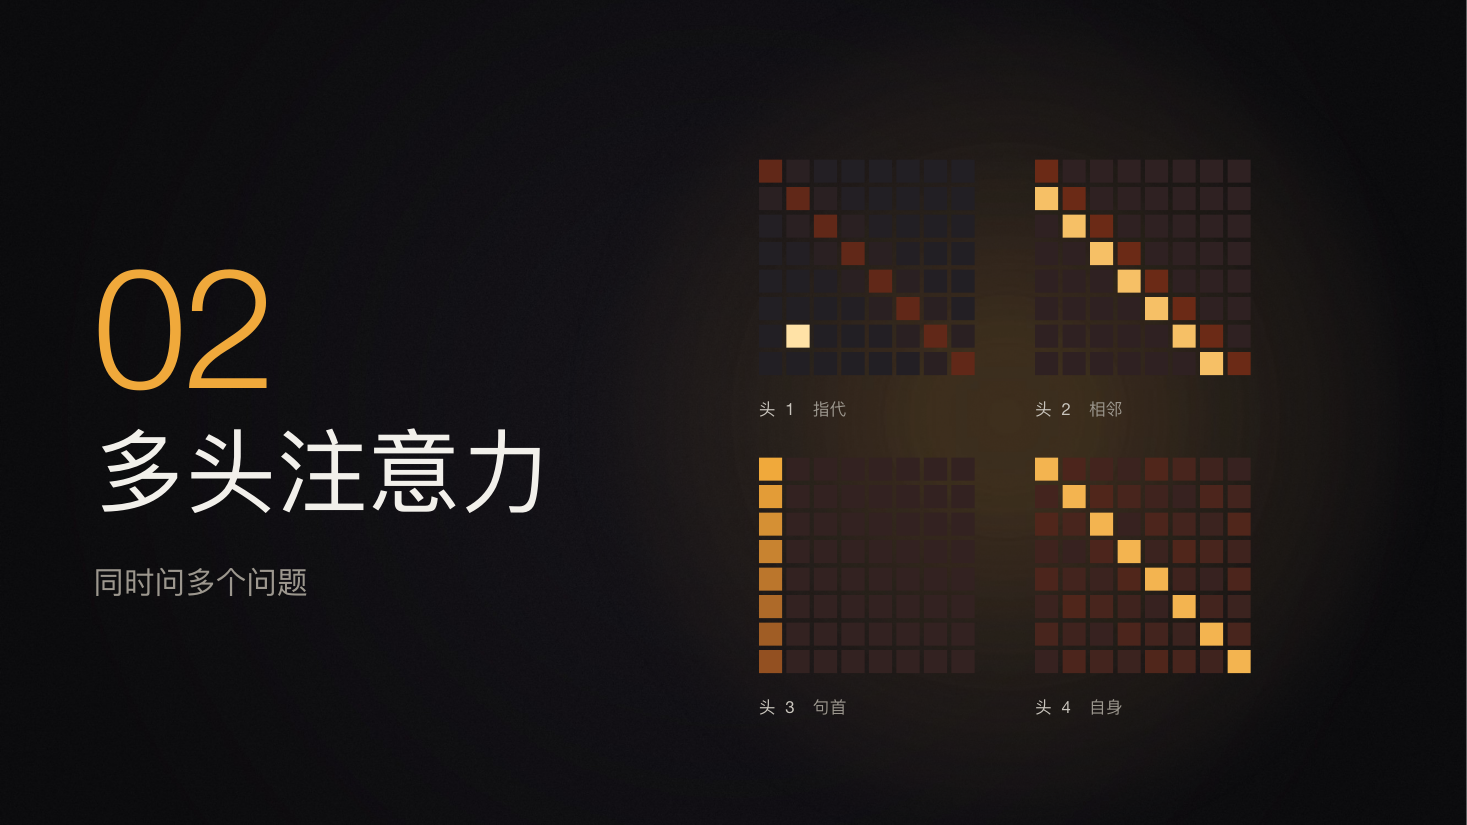
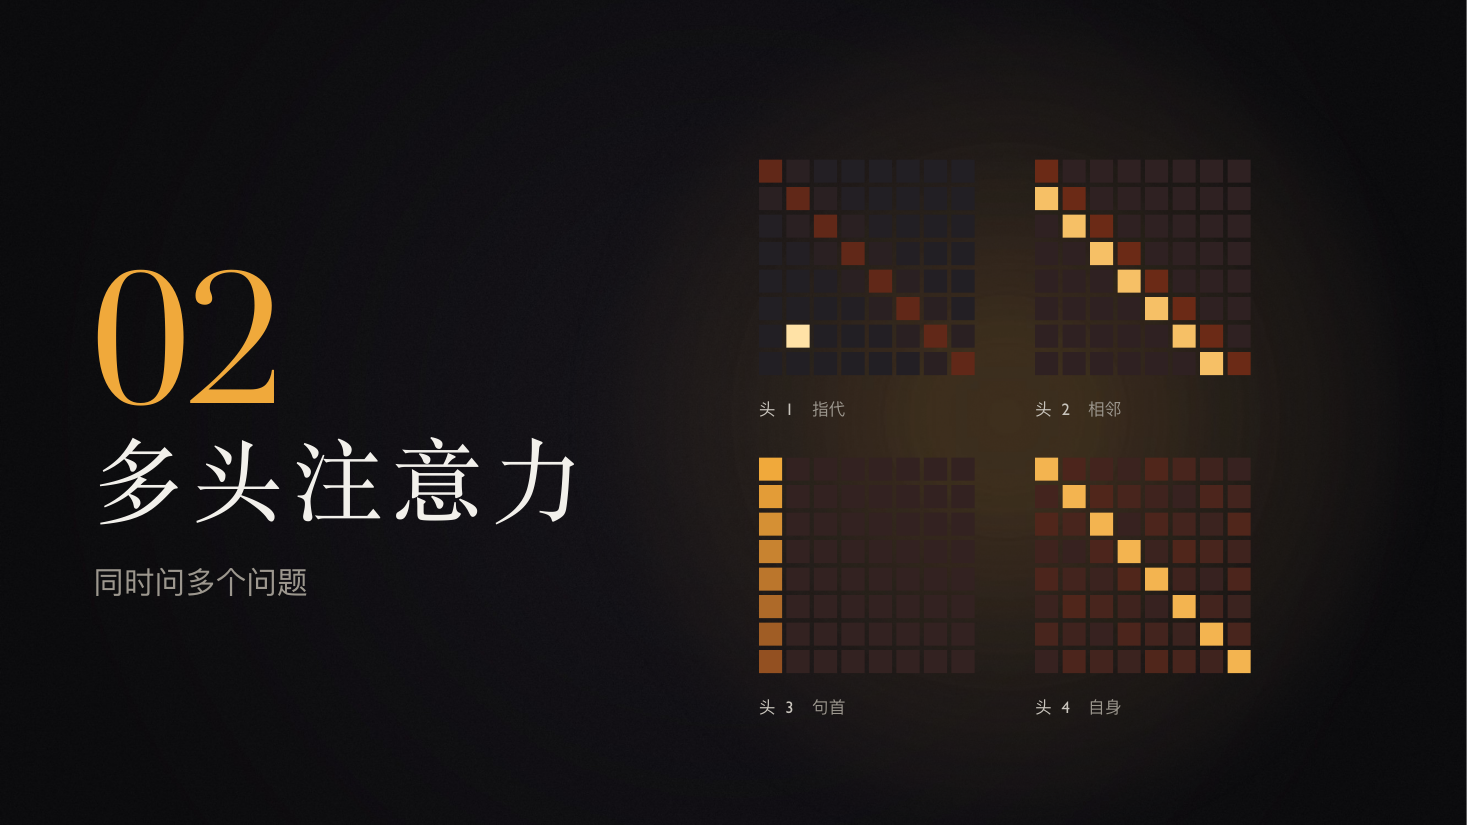
examples: adopt cinematic typography (T1) with T3's italic words; Didot only at large sizes
- example theme: Songti headlines (wide tracking) + Didot for large Latin,
  numbers and letters; Gill Sans for labels and small Latin; Hoefler Text
  italic for the example sentence's words
- small Latin (weights, folios, counts) moved off Didot, whose hairlines vanish
  when projected at small sizes
- typography.md: cinematic pairing; high-contrast serifs only at large sizes

diff --git a/examples/attention/theme.js b/examples/attention/theme.js
@@ -1,4 +1,5 @@
-// Design tokens — "暗室之光": attention is light finding pattern in a dark, lawless room.
+// Design tokens — "暗室之光": attention is light finding pattern in a dark, lawless room. Typography: T1 "电影片头" (Songti headlines with wide tracking, Didot for Latin/numbers/letters, Gill Sans labels)
+// with T3's Hoefler Text italic for the example sentence's words.
 // One world for the whole deck: warm charcoal with grain, lit by whatever the page is about. Amber heat is the only color.
 module.exports = {
   name: 'Light in the Dark',
@@ -18,27 +19,30 @@ module.exports = {
     glow: '4A3820',      // the light pool on each page's focus (k.light)
   },
   fonts: {
+    head: 'Songti SC',
     sans: 'PingFang SC',
-    latin: 'Helvetica Neue',
-    latinLight: 'Helvetica Neue Light',
+    latin: 'Didot',
+    latinLight: 'Didot',
+    label: 'Gill Sans',
+    quote: 'Hoefler Text', // the example sentence's words, set like a quoted source
     mono: 'Menlo',
   },
-  fontPairs: { 'PingFang SC': 'Helvetica Neue' }, // regular weight only — see typography.md
+  fontPairs: { 'Songti SC': 'Didot', 'PingFang SC': 'Gill Sans' }, // family names only
   // The room: base + very fine grain + darkened corners. The light itself is a shape (k.light) on each page's focus,
   // so it can glide between pages with Morph.
   backgroundImages: { paper: 'assets/room.jpg' },
   grid: { margin: { x: 0.85, top: 0.75, bottom: 0.6 }, cols: 12, gutter: 0.22 },
   type: {
-    display: { font: 'sans', size: 60, leading: 1.15, color: 'ink' },
-    statement: { font: 'sans', size: 36, leading: 1.3, color: 'ink' },
-    title: { font: 'sans', size: 26, leading: 1.3, color: 'ink' },
+    display: { font: 'head', size: 60, leading: 1.2, tracking: 8, color: 'ink' },
+    statement: { font: 'head', size: 36, leading: 1.35, tracking: 6, color: 'ink' },
+    title: { font: 'head', size: 27, leading: 1.3, tracking: 5, color: 'ink' },
     lead: { font: 'sans', size: 20, leading: 1.5, color: 'graphite' },
     body: { font: 'sans', size: 15, leading: 1.55, color: 'graphite' },
-    label: { font: 'sans', size: 11, leading: 1.3, tracking: 12, color: 'stone' },
+    label: { font: 'label', size: 11, leading: 1.3, tracking: 18, color: 'stone' },
     caption: { font: 'sans', size: 11, leading: 1.5, color: 'stone' },
-    word: { font: 'latin', size: 24, leading: 1.2, color: 'stone' },
-    letter: { font: 'latinLight', size: 60, leading: 1, color: 'ink' },
-    number: { font: 'latinLight', size: 110, leading: 1, tracking: -2, color: 'accent' },
+    word: { font: 'quote', size: 26, leading: 1.2, italic: true, color: 'stone' },
+    letter: { font: 'latin', size: 64, leading: 1, color: 'ink' },
+    number: { font: 'latin', size: 120, leading: 1, color: 'accent' },
     math: { font: 'STIX Two Math', size: 22, leading: 1.2, color: 'graphite' },
   },
   chart: { series: ['accent', 'stone'] },

diff --git a/examples/attention/parts.js b/examples/attention/parts.js
@@ -61,14 +61,14 @@ function sentence(k, { size = 24, gap = 0.34 } = {}) {
 function frame(k, { section, name, ink = 'stone', page }) {
   const { index, total } = page || k.page;
   const right = k.W - k.M.x;
-  k.text([{ text: section, font: 'latin' }, { text: `   ${name}` }], { style: 'label', color: ink, x: right - 4, y: 0.4, w: 4, align: 'right', nowrap: true, chrome: true });
+  k.text([{ text: section, font: 'label' }, { text: `   ${name}` }], { style: 'label', color: ink, x: right - 4, y: 0.4, w: 4, align: 'right', nowrap: true, chrome: true });
   const cell = 0.085, gap = 0.05, y = k.H - 0.42;
   for (let i = 1; i <= total; i++) {
     const fill = i < index ? 'stone' : i === index ? 'accent' : 'hairline';
     k.rect({ x: k.M.x + (i - 1) * (cell + gap), y, w: cell, h: cell, fill });
   }
   const pad = (n) => String(n).padStart(2, '0');
-  k.text(`${pad(index)} / ${pad(total)}`, { style: 'caption', font: 'latin', color: ink, x: right - 1.2, y: y - 0.055, w: 1.2, align: 'right', nowrap: true, chrome: true });
+  k.text(`${pad(index)} / ${pad(total)}`, { style: 'caption', font: 'label', color: ink, x: right - 1.2, y: y - 0.055, w: 1.2, align: 'right', nowrap: true, chrome: true });
 }
 
 // Dimension line (engineering-drawing style).
@@ -76,7 +76,7 @@ function dim(k, { x1, x2, y, label, color = 'stone', build }) {
   k.line({ x1, y1: y, x2, y2: y, color, weight: 0.5, build });
   k.line({ x1, y1: y - 0.06, x2: x1, y2: y + 0.06, color, weight: 0.5, build });
   k.line({ x1: x2, y1: y - 0.06, x2, y2: y + 0.06, color, weight: 0.5, build });
-  k.text(label, { style: 'caption', font: 'latin', color, x: (x1 + x2) / 2 - 1, y: y + 0.08, w: 2, align: 'center', nowrap: true, build });
+  k.text(label, { style: 'caption', font: 'label', color, x: (x1 + x2) / 2 - 1, y: y + 0.08, w: 2, align: 'center', nowrap: true, build });
 }
 
 // Leader: a thin line from an annotation to its target, ending in a small lit dot.

diff --git a/examples/attention/slides/S03-light.js b/examples/attention/slides/S03-light.js
@@ -36,12 +36,12 @@ module.exports = {
       k.text(t, { style: 'word', color: c, x: xs[i].x - 0.1, y, w: xs[i].w + 0.2, h: 0.5, align: 'center', nowrap: true, name: `tok-${i}` });
     });
     [[1, 'accent'], [5, 'stone']].forEach(([i, c]) => {
-      k.text(WEIGHTS[i].toFixed(2), { style: 'caption', font: 'latin', color: c, x: xs[i].x - 0.3, y: y + 0.55, w: xs[i].w + 0.6, align: 'center', nowrap: true, build: [2, 500] });
+      k.text(WEIGHTS[i].toFixed(2), { style: 'caption', font: 'label', color: c, x: xs[i].x - 0.3, y: y + 0.55, w: xs[i].w + 0.6, align: 'center', nowrap: true, build: [2, 500] });
     });
 
     // flag annotation dropping onto the apex of the it → animal arc
     const ax = animalArc.apex.x;
-    k.text([{ text: '指代消解\n', style: 'label', color: 'accent' }, { text: 'it = animal', style: 'body', font: 'latin', color: 'ink' }], { x: ax + 0.14, y: 1.75, w: 2.4, paraSpace: 2, build: 3 });
+    k.text([{ text: '指代消解\n', style: 'label', color: 'accent' }, { text: 'it = animal', style: 'body', font: 'quote', italic: true, size: 17, color: 'ink' }], { x: ax + 0.14, y: 1.75, w: 2.4, paraSpace: 2, build: 3 });
     leader(k, { from: { x: ax, y: 1.8 }, to: animalArc.apex, build: 3 });
 
     k.text('弧的粗细与亮度 = 注意力权重（示意值）', { style: 'caption', x: k.M.x, y: k.H - k.M.bottom - 0.32, w: 5, h: 0.26, nowrap: true });

diff --git a/examples/attention/slides/S01-cover.js b/examples/attention/slides/S01-cover.js
@@ -21,12 +21,12 @@ module.exports = {
     k.light({ cx: x0 + 1 * pitch + cell / 2, cy: y0 + IT * pitch + cell / 2, r: 4.6, strength: 1 });
     for (let r = 0; r < N; r++) {
       for (let c = 0; c < N; c++) k.rect({ x: x0 + c * pitch, y: y0 + r * pitch, w: cell, h: cell, fill: heat(k, weight(r, c)) });
-      k.text(TOKENS[r], { style: 'caption', font: 'latin', color: r === IT ? 'accent' : 'stone', x: x0 - 1.1, y: y0 + r * pitch + 0.12, w: 1.0, align: 'right', nowrap: true });
+      k.text(TOKENS[r], { style: 'caption', font: 'label', color: r === IT ? 'accent' : 'stone', x: x0 - 1.1, y: y0 + r * pitch + 0.12, w: 1.0, align: 'right', nowrap: true });
     }
 
     k.text('TECH TALK  ·  2026', { style: 'label', color: 'accent', x: k.M.x, y: k.M.top, w: 4, nowrap: true });
     k.text('注意力，\n是一种检索', { style: 'display', x: k.M.x, y: 2.3, w: 4.4, nowrap: true });
-    k.text('从一个代词出发，\n理解 Transformer 的核心机制', { style: 'lead', x: k.M.x, y: 4.95, w: 4.4, nowrap: true });
+    k.text('从一个代词出发，\n理解 Transformer 的核心机制', { style: 'lead', x: k.M.x, y: 5.2, w: 4.4, nowrap: true });
     k.text('Asteria  ·  机器学习读书会 第 7 期', { style: 'caption', x: k.M.x, y: k.H - k.M.bottom - 0.26, w: 4.4, h: 0.26, nowrap: true });
   },
 };

diff --git a/examples/attention/slides/S06-cost.js b/examples/attention/slides/S06-cost.js
@@ -26,7 +26,7 @@ module.exports = {
     specs.forEach((s, i) => {
       const size = s.n * pitch - gap;
       const m = matrix(k, { x: s.x, y: baseY - size, n: s.n, cell, gap, weight: pattern(s.n), build: i ? [i, 25] : undefined });
-      k.text([{ text: `n = ${s.n}`, font: 'latin', color: i === 2 ? 'ink' : 'graphite' }, { text: `   ${s.n * s.n} 格`, color: 'stone' }],
+      k.text([{ text: `n = ${s.n}`, font: 'label', color: i === 2 ? 'ink' : 'graphite' }, { text: `   ${s.n * s.n} 格`, color: 'stone' }],
         { style: 'caption', x: s.x, y: baseY + 0.18, w: 1.6, nowrap: true, build: i || undefined });
       if (prev) {
         const ax1 = prev.right + 0.2, ax2 = m.x - 0.2, ay = baseY - 0.5;

diff --git a/examples/attention/slides/S05-match.js b/examples/attention/slides/S05-match.js
@@ -49,7 +49,7 @@ module.exports = {
       const y = rowsY[i], lit = r.w >= 0.4, bw = Math.max(0.05, (r.w / 0.5) * barMax);
       const b = [2, lit ? 700 : i * 120];
       k.rect({ x: barX, y: y + 0.03, w: bw, h: 0.18, fill: heat(k, 0.2 + r.w * 1.75), build: b });
-      k.text(r.w.toFixed(2), { style: 'caption', font: 'latin', color: lit ? 'hot' : 'stone', x: barX + bw + 0.12, y: y - 0.01, w: 0.6, nowrap: true, build: b });
+      k.text(r.w.toFixed(2), { style: 'caption', font: 'label', color: lit ? 'hot' : 'stone', x: barX + bw + 0.12, y: y - 0.01, w: 0.6, nowrap: true, build: b });
     });
 
     // ④ weighted sum of values → it's new representation
